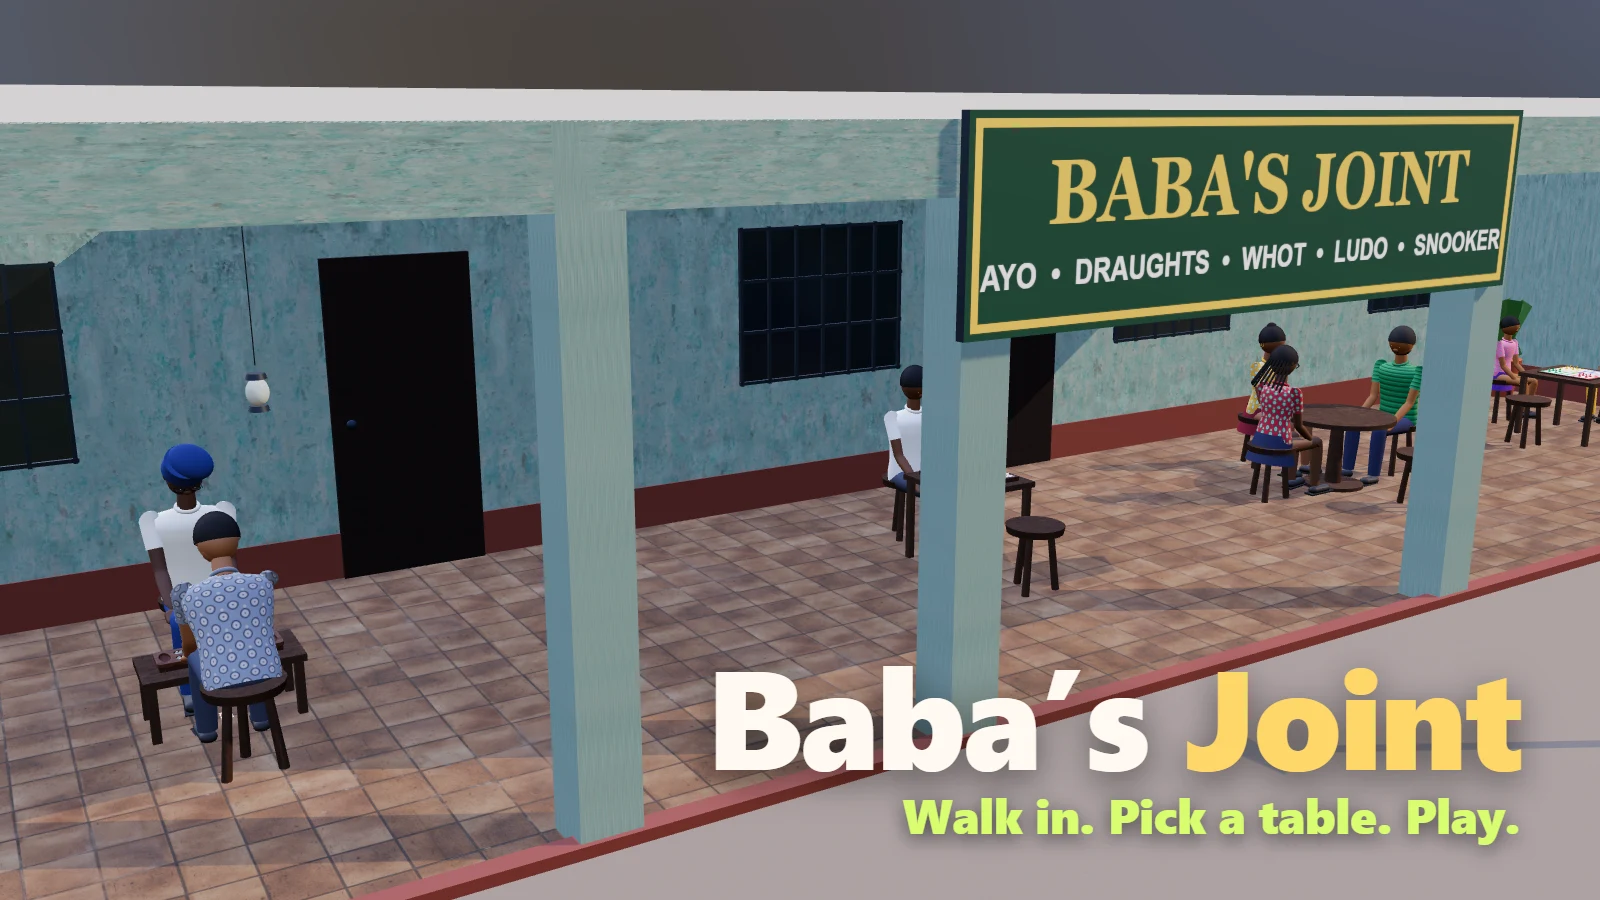
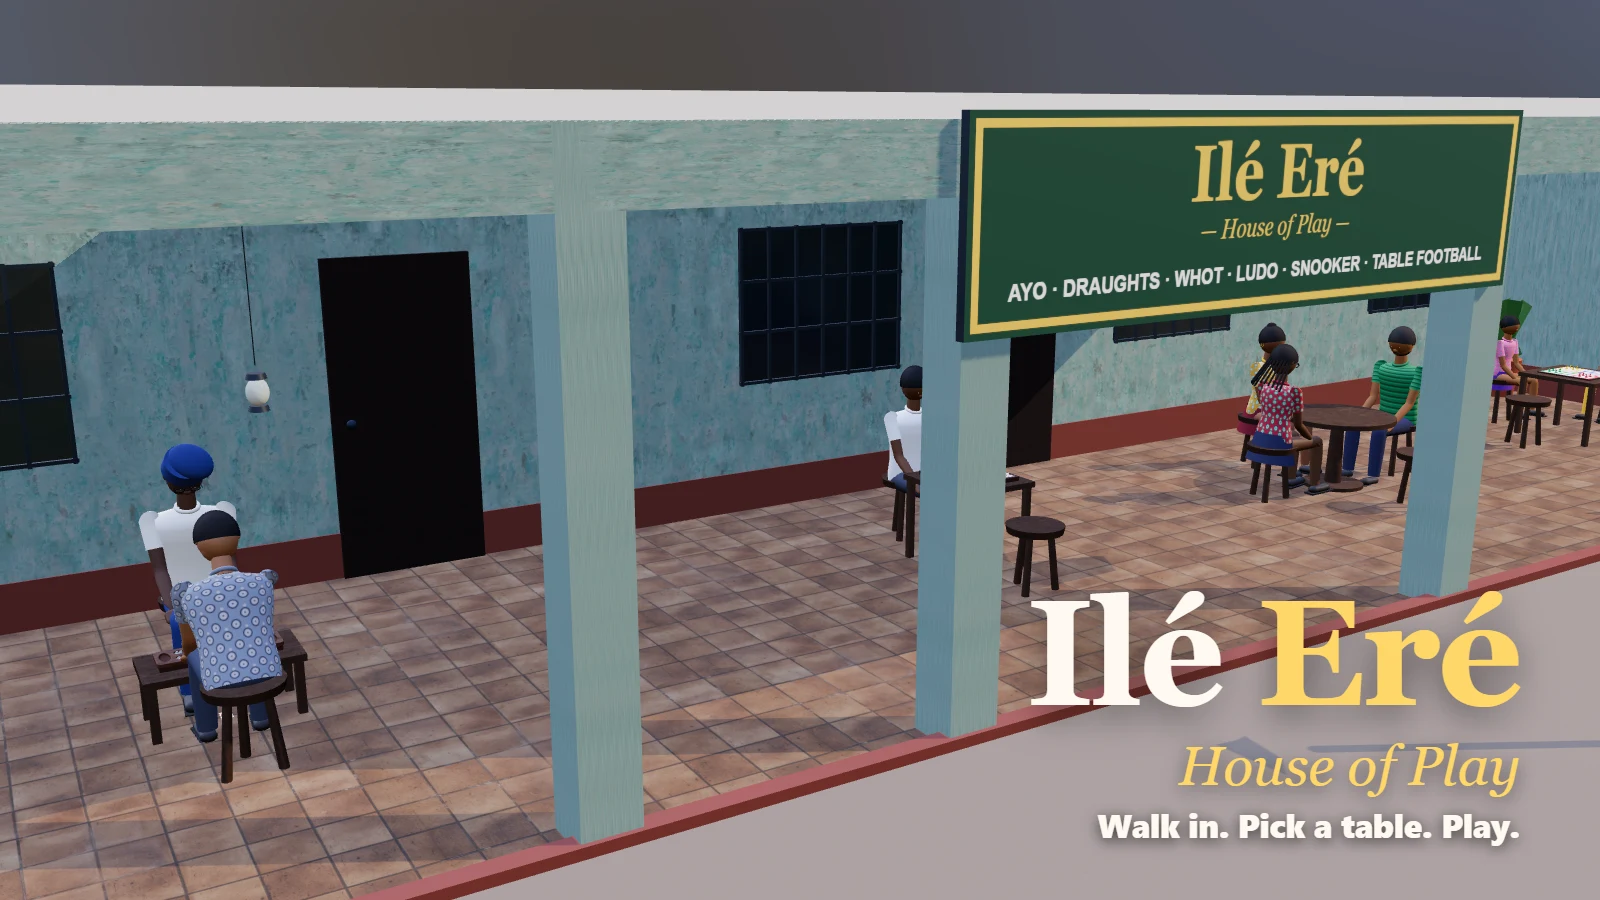
Rename to Ilé Eré (House of Play): sign, cover, titles, guide, leaderboard label

diff --git a/src/guides.js b/src/guides.js
@@ -1,4 +1,4 @@
-// "How to play" guides for Baba's Joint: the joint itself and each of the six tables.
+// "How to play" guides for Ilé Eré: the house itself and each of the six tables.
 // Plain data plus small inline SVG diagrams (built once, below). No DOM, no dependencies.
 //
 //   GUIDES[id]   = { title, intro, sections: [{ heading, html, diagram? }] }
@@ -363,8 +363,8 @@ const JOINT_KEYS = (() => {
 // ── Guides ──
 export const GUIDES = {
   joint: {
-    title: 'Getting around Baba’s Joint',
-    intro: 'Welcome to Baba’s Joint, a Lagos game house. Walk around as your own character, sit at any of the six tables and play the regulars.',
+    title: 'Getting around Ilé Eré',
+    intro: 'Welcome to Ilé Eré, the House of Play: a Lagos game house. Walk around as your own character, sit at any of the six tables and play the regulars.',
     sections: [
       {
         heading: 'Walking',
@@ -377,11 +377,11 @@ export const GUIDES = {
       },
       {
         heading: 'Finding a table quickly',
-        html: '<ul><li>Tap the <b>☰</b> button (top right) for a list of all six tables. Tap one and you walk straight there and sit down.</li><li>The <b>mini-map</b> in the bottom corner shows the whole joint (tap <b>Map</b> to open it). Tap a table on it to go there, or anywhere else to walk there.</li><li>New here? Tap <b>☰</b>, then <b>Show me around</b>, and Baba sends you round every table.</li></ul>',
+        html: '<ul><li>Tap the <b>☰</b> button (top right) for a list of all six tables. Tap one and you walk straight there and sit down.</li><li>The <b>mini-map</b> in the bottom corner shows the whole house (tap <b>Map</b> to open it). Tap a table on it to go there, or anywhere else to walk there.</li><li>New here? Tap <b>☰</b>, then <b>Show me around</b>, and Baba sends you round every table.</li></ul>',
       },
       {
         heading: 'Who plays where',
-        html: '<ul><li><b>Ayo</b> with Baba, the elder of the joint</li><li><b>Draughts</b> with Tunde the barber</li><li><b>Whot</b> with Iya Bisi, Uncle Femi and Mama Ngozi</li><li><b>Ludo</b> with the kids, Kemi and Tobi</li><li><b>Snooker</b> with Emeka</li><li><b>Table football</b> with Chidi</li></ul>',
+        html: '<ul><li><b>Ayo</b> with Baba, the elder of the house</li><li><b>Draughts</b> with Tunde the barber</li><li><b>Whot</b> with Iya Bisi, Uncle Femi and Mama Ngozi</li><li><b>Ludo</b> with the kids, Kemi and Tobi</li><li><b>Snooker</b> with Emeka</li><li><b>Table football</b> with Chidi</li></ul>',
       },
       {
         heading: 'Leaving a table',
@@ -393,11 +393,11 @@ export const GUIDES = {
       },
       {
         heading: 'The leaderboard',
-        html: '<p>Every win on <b>Normal</b> or <b>Hard</b>, at any table, counts towards your total wins at the joint. <b>Sign in with start.ng</b> to put your wins on the leaderboard and play as your own character. Guests can play everything, but their wins stay on this device.</p>',
+        html: '<p>Every win on <b>Normal</b> or <b>Hard</b>, at any table, counts towards your total wins at Ilé Eré. <b>Sign in with start.ng</b> to put your wins on the leaderboard and play as your own character. Guests can play everything, but their wins stay on this device.</p>',
       },
       {
         heading: 'Day, evening and night',
-        html: '<p>The joint follows your clock. It’s daytime until 4 pm, evening until 7 pm, then night: NEPA has taken light, so the lanterns are lit and the chickens have gone to roost.</p>',
+        html: '<p>The house follows your clock. It’s daytime until 4 pm, evening until 7 pm, then night: NEPA has taken light, so the lanterns are lit and the chickens have gone to roost.</p>',
       },
       {
         heading: 'Music and sound',

diff --git a/src/main.js b/src/main.js
@@ -47,8 +47,8 @@ const timeOfDay = ['day', 'evening', 'night'].includes(params.get('time'))
 setTimeOfDay(timeOfDay);
 setAmbience(timeOfDay);
 $('lead-time').textContent = {
-  day: 'It’s a quiet afternoon at the joint.',
-  evening: 'The sun is going down over the joint.',
+  day: 'It’s a quiet afternoon on the verandah.',
+  evening: 'The sun is going down over the courtyard.',
   night: 'NEPA has taken light, so the lanterns are lit.',
 }[timeOfDay];
 if (timeOfDay === 'night') chickens.forEach((c) => { c.visible = false; }); // gone to roost
@@ -82,7 +82,7 @@ scene.add(baba.root);
 
 const playerNode = new THREE.Group();
 playerNode.position.copy(SPAWN);
-playerNode.rotation.y = Math.PI; // facing into the joint
+playerNode.rotation.y = Math.PI; // facing into the house
 scene.add(playerNode);
 let me = null;
 let meKey = '';
@@ -680,7 +680,7 @@ $('mute').onclick = () => { unlock(); $('mute').textContent = toggleMute() ? '\u
 setUpSeeds();
 setMode('walk');
 updateScores();
-setTimeout(() => toast('Welcome to Baba’s Joint! Walk up to a table to play, or tap ☰ for the tables and a tour.', 6000), 600);
+setTimeout(() => toast('Welcome to Ilé Eré, the House of Play! Walk up to a table to play, or tap ☰ for the tables and a tour.', 6000), 600);
 
 // ── Seed counts over each pit ──
 const counts = [];
@@ -913,7 +913,7 @@ const RUN_SPEED = 3.0;
 const BODY_R = 0.27;
 const walker = {
   pos: SPAWN.clone(),
-  heading: Math.PI, // facing into the joint (-z)
+  heading: Math.PI, // facing into the house (-z)
   speed: 0,
   target: null, // a point to walk to (from a tap or click)
   goingTo: null, // a table to use on arrival
@@ -1332,7 +1332,7 @@ async function saveWins(statusEl) {
   statusEl.textContent = 'Saving to start.ng…';
   const saved = await saveRun(leaderboardStats());
   statusEl.textContent = saved.ok
-    ? (saved.result.improved ? `New best! You're #${saved.result.rank} at the joint.` : `You're #${saved.result.rank} on the leaderboard.`)
+    ? (saved.result.improved ? `New best! You're #${saved.result.rank} at Ilé Eré.` : `You're #${saved.result.rank} on the leaderboard.`)
     : saved.error || 'Could not save to start.ng.';
 }
 async function finishTable(id, result) {
@@ -1461,7 +1461,7 @@ function stepMinimap(dt) {
 }
 
 // ── How to play: a page about the joint and one per game ──
-const GUIDE_TABS = [['joint', 'The joint'], ['ayo', 'Ayo'], ['draughts', 'Draughts'], ['whot', 'Whot'], ['ludo', 'Ludo'], ['snooker', 'Snooker'], ['foosball', 'Table football']];
+const GUIDE_TABS = [['joint', 'The house'], ['ayo', 'Ayo'], ['draughts', 'Draughts'], ['whot', 'Whot'], ['ludo', 'Ludo'], ['snooker', 'Snooker'], ['foosball', 'Table football']];
 let guideTab = 'joint';
 function showGuide(key) {
   guideTab = key;
@@ -1530,7 +1530,7 @@ function startTour() {
   Object.assign(tour, { active: true, stop: 0 });
   $('tour-end').hidden = false;
   showPrompt(null);
-  say('Welcome! Let me show you round my joint. Just follow the line.', 'baba', 3600);
+  say('Welcome to Ilé Eré! Let me show you round. Just follow the line.', 'baba', 3600);
   tour.timer = setTimeout(tourNext, 2600);
 }
 function tourNext() {
@@ -1914,7 +1914,7 @@ if (cover) {
   document.body.classList.add('cover');
   const t = document.createElement('div');
   t.className = 'cover-title';
-  t.innerHTML = '<h1>Baba’s <span>Joint</span></h1><p>Walk in. Pick a table. Play.</p>';
+  t.innerHTML = '<h1>Ilé <span>Eré</span></h1><p>House of Play</p><small>Walk in. Pick a table. Play.</small>';
   document.body.append(t);
   // play a few opening moves so the board looks lived-in
   game = newGame();

diff --git a/index.html b/index.html
@@ -3,7 +3,7 @@
 <head>
 <meta charset="utf-8">
 <meta name="viewport" content="width=device-width, initial-scale=1, maximum-scale=1, user-scalable=no">
-<title>Baba’s Joint · start.ng</title>
+<title>Ilé Eré · House of Play · start.ng</title>
 <meta name="description" content="Walk into a Lagos game house as your start.ng character and pick a table: Ayo, Draughts, Whot, Ludo, Snooker or Table football.">
 <meta name="theme-color" content="#3b2a1e">
 <link rel="icon" href="favicon.svg" type="image/svg+xml">
@@ -14,7 +14,7 @@
 <div id="stage"></div>
 <div class="loading" id="loading">
   <div>
-    <p id="loading-text">Baba is opening the joint…</p>
+    <p id="loading-text">Baba is opening the house…</p>
     <div class="loading-track"><div id="loading-bar"></div></div>
   </div>
 </div>
@@ -52,7 +52,7 @@
 
 <div class="walk-hud" id="walk-hud" hidden>
   <div class="minimap" id="minimap">
-    <canvas id="minimap-canvas" width="220" height="150" aria-label="Map of the joint: tap a table to go there"></canvas>
+    <canvas id="minimap-canvas" width="220" height="150" aria-label="Map of the house: tap a table to go there"></canvas>
     <button class="minimap-toggle" id="minimap-toggle" type="button" aria-label="Show or hide the map">Map</button>
   </div>
   <button class="tour-end" id="tour-end" type="button" hidden>End the tour</button>
@@ -106,7 +106,7 @@
     </blockquote>
     <p class="status" id="over-status"></p>
     <button class="secondary" id="over-signin" type="button" hidden>Sign in with start.ng</button>
-    <h3>Leaderboard: most wins at the joint</h3>
+    <h3>Leaderboard: most wins at Ilé Eré</h3>
     <ol class="board" id="board"></ol>
     <p class="note" id="board-note"></p>
     <button class="big" id="again" type="button">Play again</button>
@@ -130,7 +130,7 @@
 
 <section class="screen" id="table-menu" hidden>
   <div class="panel">
-    <p class="kicker" id="table-kicker">Baba's Joint</p>
+    <p class="kicker" id="table-kicker">Ilé Eré</p>
     <h1 id="table-title">Draughts</h1>
     <p class="lead" id="table-lead"></p>
     <p class="label" id="table-level-label">How strong are they?</p>
@@ -159,7 +159,7 @@
     <p class="note" id="table-over-record"></p>
     <p class="status" id="table-over-status"></p>
     <button class="secondary" id="table-over-signin" type="button" hidden>Sign in with start.ng</button>
-    <h3>Leaderboard: most wins at the joint</h3>
+    <h3>Leaderboard: most wins at Ilé Eré</h3>
     <ol class="board" id="table-board"></ol>
     <p class="note" id="table-board-note"></p>
     <button class="big" id="table-again" type="button">Play again</button>

diff --git a/src/house.js b/src/house.js
@@ -1,4 +1,4 @@
-// Baba's Joint: the game house around the Ayo table. A long verandah with a table for each game,
+// Ilé Eré (House of Play): the game house around the Ayo table. A long verandah with a table for each game,
 // a walled courtyard with the snooker and table-football tables, and the gate you walk in by.
 //
 // Layout (metres): the verandah runs along x from -3.6 to 14.4, back wall at z = -2.1, open
@@ -134,11 +134,13 @@ export function buildHouse(scene, add) {
     g.strokeRect(14, 14, w - 28, h - 28);
     g.fillStyle = '#f2c14e';
     g.textAlign = 'center';
-    g.font = 'bold 104px Georgia, serif';
-    g.fillText("BABA'S JOINT", w / 2, 128);
+    g.font = 'bold 96px Georgia, serif';
+    g.fillText('Ilé Eré', w / 2, 110);
+    g.font = 'italic 34px Georgia, serif';
+    g.fillText('— House of Play —', w / 2, 158);
     g.fillStyle = '#fffaf2';
-    g.font = 'bold 40px Arial, sans-serif';
-    g.fillText('AYO  •  DRAUGHTS  •  WHOT  •  LUDO  •  SNOOKER', w / 2, 200);
+    g.font = 'bold 28px Arial, sans-serif';
+    g.fillText('AYO · DRAUGHTS · WHOT · LUDO · SNOOKER · TABLE FOOTBALL', w / 2, 214);
   });
   const sign = add(new THREE.BoxGeometry(4.2, 1.05, 0.06), new THREE.MeshStandardMaterial({ map: signTex, roughness: 0.7 }), 5.1, 2.62, VERANDAH.front + 0.2);
   sign.material = [metal, metal, metal, metal, sign.material, metal];

diff --git a/style.css b/style.css
@@ -212,5 +212,6 @@ h3 { margin: 18px 0 8px; font-size: 13px; letter-spacing: .08em; text-transform:
 body.cover .card, body.cover .corner, body.cover .screen, body.cover .hud, body.cover #counts, body.cover .bubble { display: none !important; }
 .cover-title { display: none; }
 body.cover .cover-title { display: block; position: fixed; right: 5%; bottom: 6%; z-index: 7; text-align: right; }
-.cover-title h1 { font-size: 112px; margin: 0; text-shadow: 0 8px 30px rgba(0,0,0,.5); }
-.cover-title p { margin: 0 0 0 6px; font-size: 38px; font-weight: 800; color: var(--accent); text-shadow: 0 4px 16px rgba(0,0,0,.6); }
+.cover-title h1 { font-family: Georgia, 'Times New Roman', serif; font-size: 120px; line-height: 1; margin: 0; text-shadow: 0 8px 30px rgba(0,0,0,.5); }
+.cover-title p { margin: 6px 0 0; font-family: Georgia, 'Times New Roman', serif; font-style: italic; font-size: 44px; color: var(--gold); text-shadow: 0 4px 16px rgba(0,0,0,.6); }
+.cover-title small { display: block; margin-top: 4px; font-size: 26px; font-weight: 800; color: var(--ink); text-shadow: 0 3px 12px rgba(0,0,0,.7); }

diff --git a/src/scene.js b/src/scene.js
@@ -1,4 +1,4 @@
-// Baba's Joint: lighting, the game house, and the Ayo table with its carved board and seeds.
+// Ilé Eré: lighting, the game house, and the Ayo table with its carved board and seeds.
 // The Ayo table sits at the origin; the rest of the house (other tables, courtyard, gate) comes
 // from house.js.
 import * as THREE from 'three';

diff --git a/README.md b/README.md
@@ -1,4 +1,4 @@
-# Baba's Joint
+# Ilé Eré · House of Play
 
 A Lagos game house you walk into as your own start.ng character. Tables line the verandah and the courtyard: **Ayo** with Baba, **Draughts** with Tunde the barber, **Whot** with Iya Bisi and friends, **Ludo** with Kemi and Tobi, **Snooker** with Emeka and **Table football** with Chidi. Walk up to a table and sit down to play. A three.js game for [start.ng](https://start.ng).
 
@@ -23,7 +23,7 @@ Walking: WASD or arrow keys (Shift to hurry), drag to look around, or tap the fl
 
 Sit down with Baba for a game of **Ayo**, the Yoruba seed game.
 
-![Baba’s Joint](cover.webp)
+![Ilé Eré](cover.webp)
 
 ## How to play
 
